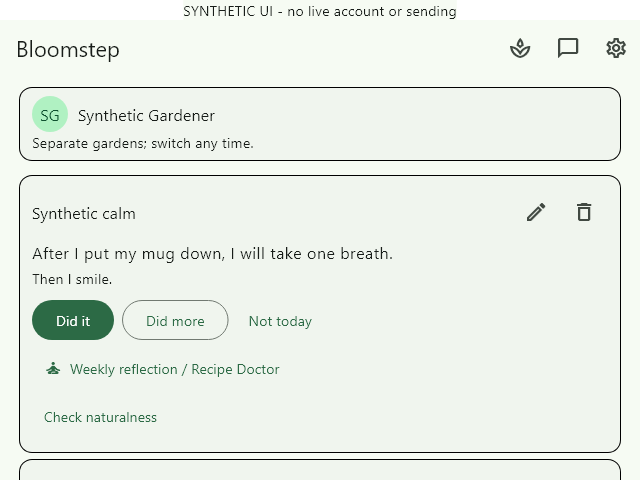
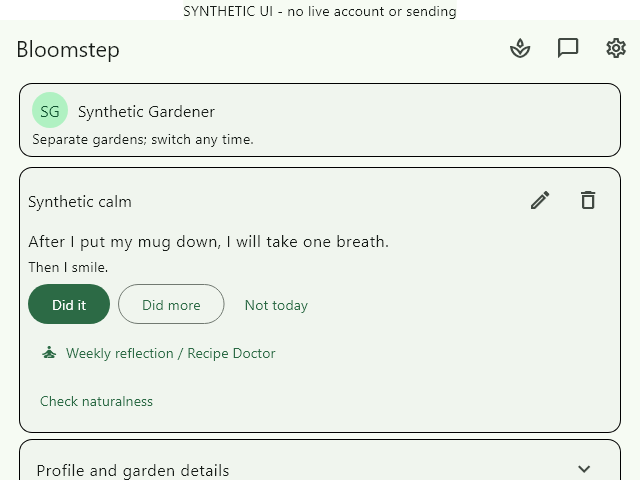
Fix short-window practice visibility
Copilot-Session: 964ad09d-7fce-4b66-a8fc-670c4493a195

diff --git a/lib/features/garden/garden_screen.dart b/lib/features/garden/garden_screen.dart
@@ -1588,6 +1588,7 @@ class _GardenScreenState extends State<GardenScreen> {
     final theme = Theme.of(context);
     final viewport = MediaQuery.sizeOf(context);
     final textScale = MediaQuery.textScalerOf(context).scale(1);
+    final shortWindow = viewport.height <= 512;
     final compactPracticeFirst =
         habits.isNotEmpty &&
         (viewport.height <= 600 || (viewport.width <= 700 && textScale >= 1.5));
@@ -1625,7 +1626,7 @@ class _GardenScreenState extends State<GardenScreen> {
           ? const Center(child: CircularProgressIndicator())
           : SingleChildScrollView(
               padding: compactPracticeFirst
-                  ? const EdgeInsets.fromLTRB(16, 8, 16, 24)
+                  ? EdgeInsets.fromLTRB(16, shortWindow ? 4 : 8, 16, 24)
                   : const EdgeInsets.fromLTRB(32, 24, 32, 100),
               child: Center(
                 child: ConstrainedBox(
@@ -1637,7 +1638,7 @@ class _GardenScreenState extends State<GardenScreen> {
                         widget.profileSummaryBuilder!(_signOut, () {
                           if (!working && !closing) unawaited(_settings());
                         }),
-                        const SizedBox(height: 8),
+                        SizedBox(height: shortWindow ? 4 : 8),
                       ] else if (widget.profileBuilder != null) ...[
                         widget.profileBuilder!(_signOut, () {
                           if (!working && !closing) unawaited(_settings());
@@ -1871,7 +1872,11 @@ class _GardenScreenState extends State<GardenScreen> {
                                 clipBehavior: Clip.antiAlias,
                                 child: Padding(
                                   padding: EdgeInsets.all(
-                                    compactPracticeFirst ? 12 : 20,
+                                    compactPracticeFirst
+                                        ? shortWindow
+                                              ? 8
+                                              : 12
+                                        : 20,
                                   ),
                                   child: Column(
                                     crossAxisAlignment:
@@ -1964,7 +1969,11 @@ class _GardenScreenState extends State<GardenScreen> {
                                       ),
                                       Text('Then I ${habit.celebration}.'),
                                       SizedBox(
-                                        height: compactPracticeFirst ? 8 : 16,
+                                        height: compactPracticeFirst
+                                            ? shortWindow
+                                                  ? 4
+                                                  : 8
+                                            : 16,
                                       ),
                                       if (habit.status != 'graduated')
                                         Wrap(

diff --git a/test/garden_chrome_visual_test.dart b/test/garden_chrome_visual_test.dart
@@ -185,6 +185,7 @@ void main() {
                 : BloomstepTheme.light(),
             builder: (context, child) => MediaQuery(
               data: MediaQuery.of(context).copyWith(
+                size: variant.size,
                 textScaler: TextScaler.linear(variant.scale),
                 disableAnimations: true,
               ),
@@ -221,6 +222,31 @@ void main() {
           reason: 'The primary practice action must be hit-testable without scrolling.',
         );
         final practice = find.widgetWithText(FilledButton, 'Did it');
+        final practiceRect = tester.getRect(practice);
+        expect(
+          practiceRect.left,
+          greaterThanOrEqualTo(0),
+          reason:
+              'The full practice action must be inside the initial viewport.',
+        );
+        expect(
+          practiceRect.top,
+          greaterThanOrEqualTo(0),
+          reason:
+              'The full practice action must be inside the initial viewport.',
+        );
+        expect(
+          practiceRect.right,
+          lessThanOrEqualTo(variant.size.width),
+          reason:
+              'The full practice action must be inside the initial viewport.',
+        );
+        expect(
+          practiceRect.bottom,
+          lessThanOrEqualTo(variant.size.height),
+          reason:
+              'The full practice action must be inside the initial viewport.',
+        );
         expect(
           tester.getSemantics(practice).flagsCollection.isButton,
           isTrue,

diff --git a/docs/visual-quality-review.md b/docs/visual-quality-review.md
@@ -22,14 +22,15 @@ from production source until the owner approves them.
 ## Accessibility hierarchy is release-blocking
 
 Do not release or defer an accessibility or hierarchy defect of this grade as
-a follow-up. At 200% text, in short windows and at high DPI, the primary action
-must be visible and reachable in the initial viewport. Keyboard focus order and
-assistive-technology semantics must expose the primary action before secondary
-profile details. Every applicable score dimension must be at least 4; any lower
-score blocks release. `NOT_OBSERVED` is an open gate, never a pass. The
-scorecard contract test enforces the recorded release policy and prevents an
-unobserved or below-target surface from being marked closed; surface-specific
-widget tests must verify the action and input semantics where automatable.
+a follow-up. At 200% text, in short windows and at high DPI, the complete
+primary-action control bounds must fit within the initial viewport and remain
+reachable. Keyboard focus order and assistive-technology semantics must expose
+the primary action before secondary profile details. Every applicable score
+dimension must be at least 4; any lower score blocks release. `NOT_OBSERVED` is
+an open gate, never a pass. The scorecard contract test enforces the recorded
+release policy and prevents an unobserved or below-target surface from being
+marked closed; surface-specific widget tests must verify the complete action
+bounds and input semantics where automatable.
 
 ## Source and evidence
 
@@ -74,10 +75,11 @@ The current `chrome-account-populated-large.png`,
 explicit, cancellable device-to-account copy/view states. They do not read or
 mutate the owner's installed garden or database. Earlier `combined-*` garden
 captures showing the profile above practice are superseded by these renders.
-The widget tests verify the primary action is hit-testable in the initial
-viewport, retains button semantics, and is keyboard-focusable before profile
-details. Native Narrator, high contrast, mixed-monitor DPI and protected-VM
-behavior remain unobserved and keep the release gates open.
+The widget tests verify the complete primary-action rectangle fits in the
+initial viewport at 420x820/200% and 640x480/200%, retains button semantics,
+and is keyboard-focusable before profile details. Native Narrator, high
+contrast, mixed-monitor DPI and protected-VM behavior remain unobserved and
+keep the release gates open.
 
 `before-chrome-*.png` show the initial `a778a66` chrome. The three
 `before-surface-*.png` preserve the existing Settings/form content before their
@@ -207,8 +209,8 @@ gaps. All current rows remain open against the full Windows quality bar.
 |---|---|---|
 | Device empty garden | 4/3/2/3/4 -> 4/4/4/3/4 | Garden identity and compact action improved; native checks open. |
 | Account populated garden | 4/3/3/3/4 -> 4/4/4/3/4 | Combined shell shown with synthetic profile; not live authentication. |
-| Device/account populated, 200% | 3/3/2/3/4 -> 4/4/4/4/4 | `Did it` is hit-testable initially at 420x820/200%; semantics and keyboard order are tested; native checks remain open. |
-| Account practice, 640x480/200% | N/O -> 4/4/4/4/4 | `Did it` is hit-testable initially; account Settings and persistent garden-switch guidance remain visible. Native checks remain open. |
+| Device/account populated, 200% | 3/3/2/3/4 -> 4/4/4/4/4 | The full `Did it` control fits initially at 420x820/200%; semantics and keyboard order are tested; native checks remain open. |
+| Account practice, 640x480/200% | N/O -> 4/4/4/4/4 | The full `Did it` control fits initially; account Settings and persistent garden-switch guidance remain visible. Native checks remain open. |
 | Account empty, short/dark | 3/3/2/3/4 -> 4/4/4/3/4 | Persistent labelled action; native snap/DPI unknown. |
 | Canopy motion/static | N/O -> 4/4/4/3/4 | Finite animation tested, not device frame timing. |
 | Outbound invitation ready | N/O -> 4/4/4/3/4 | Clear primary, honest always-visible privacy. |
